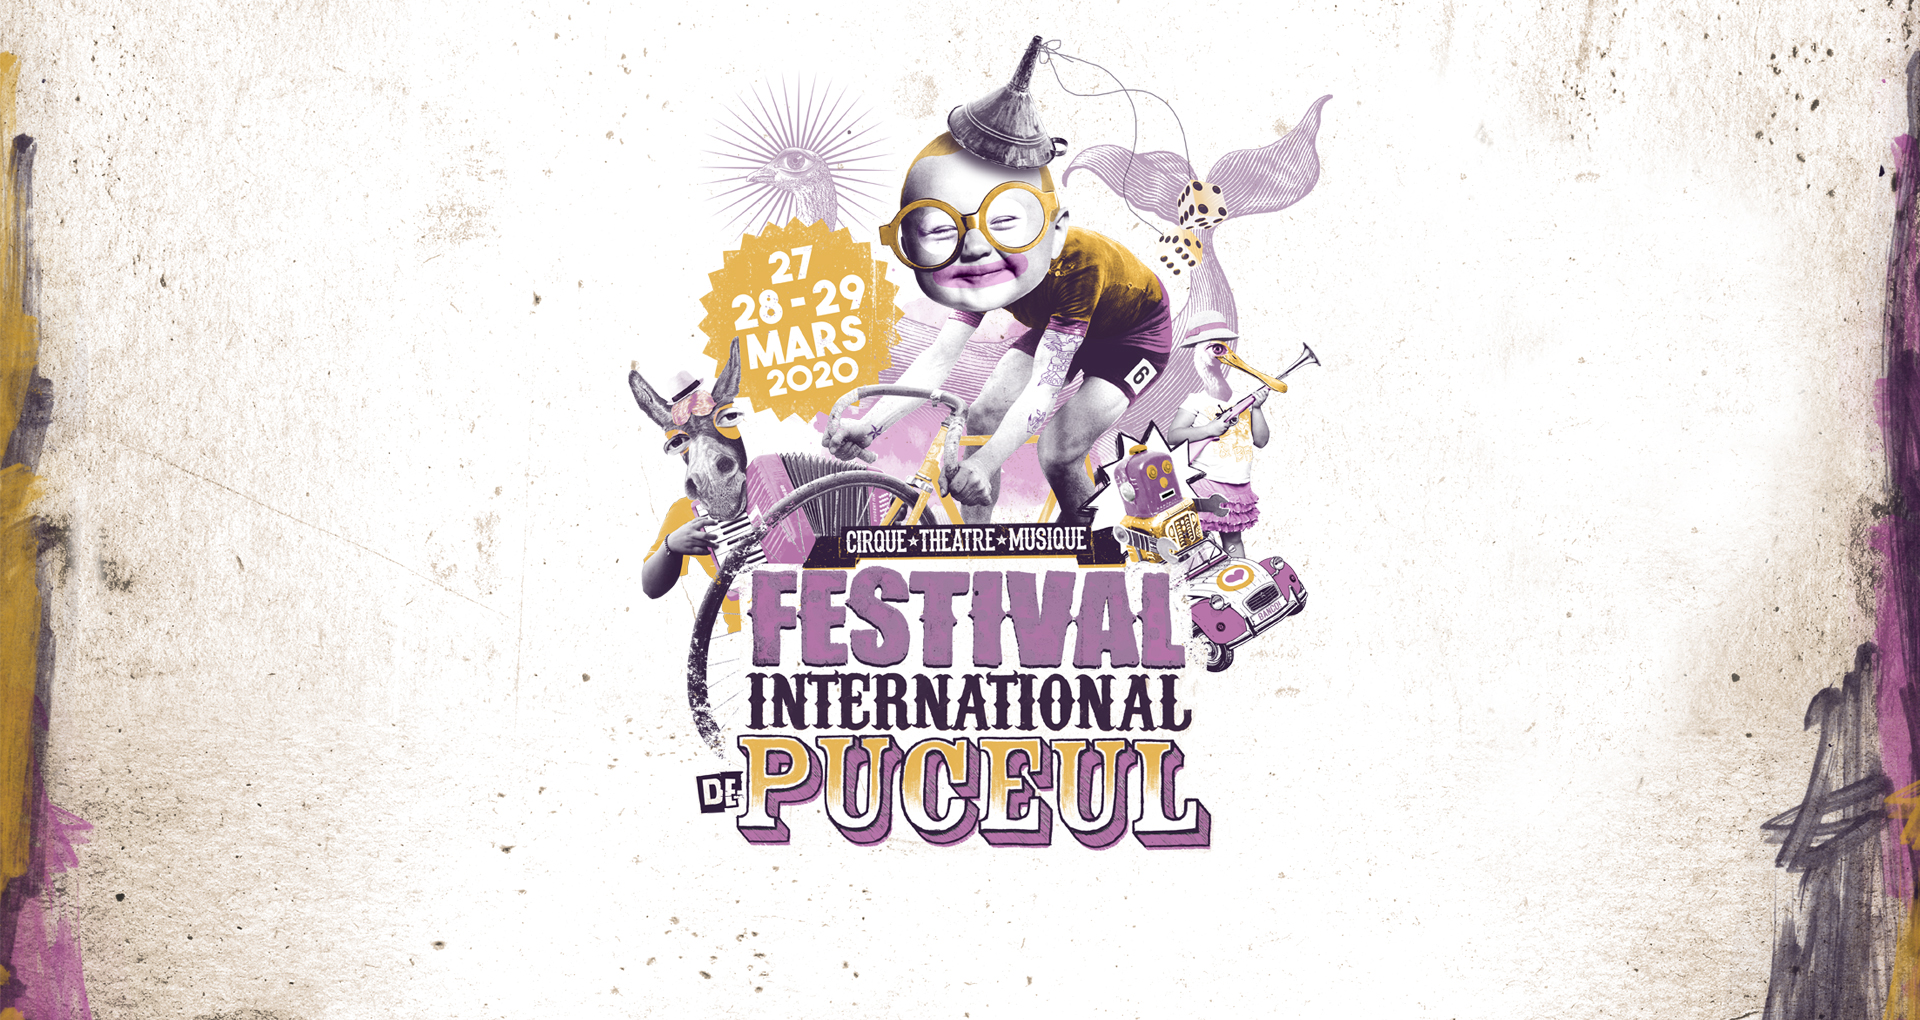
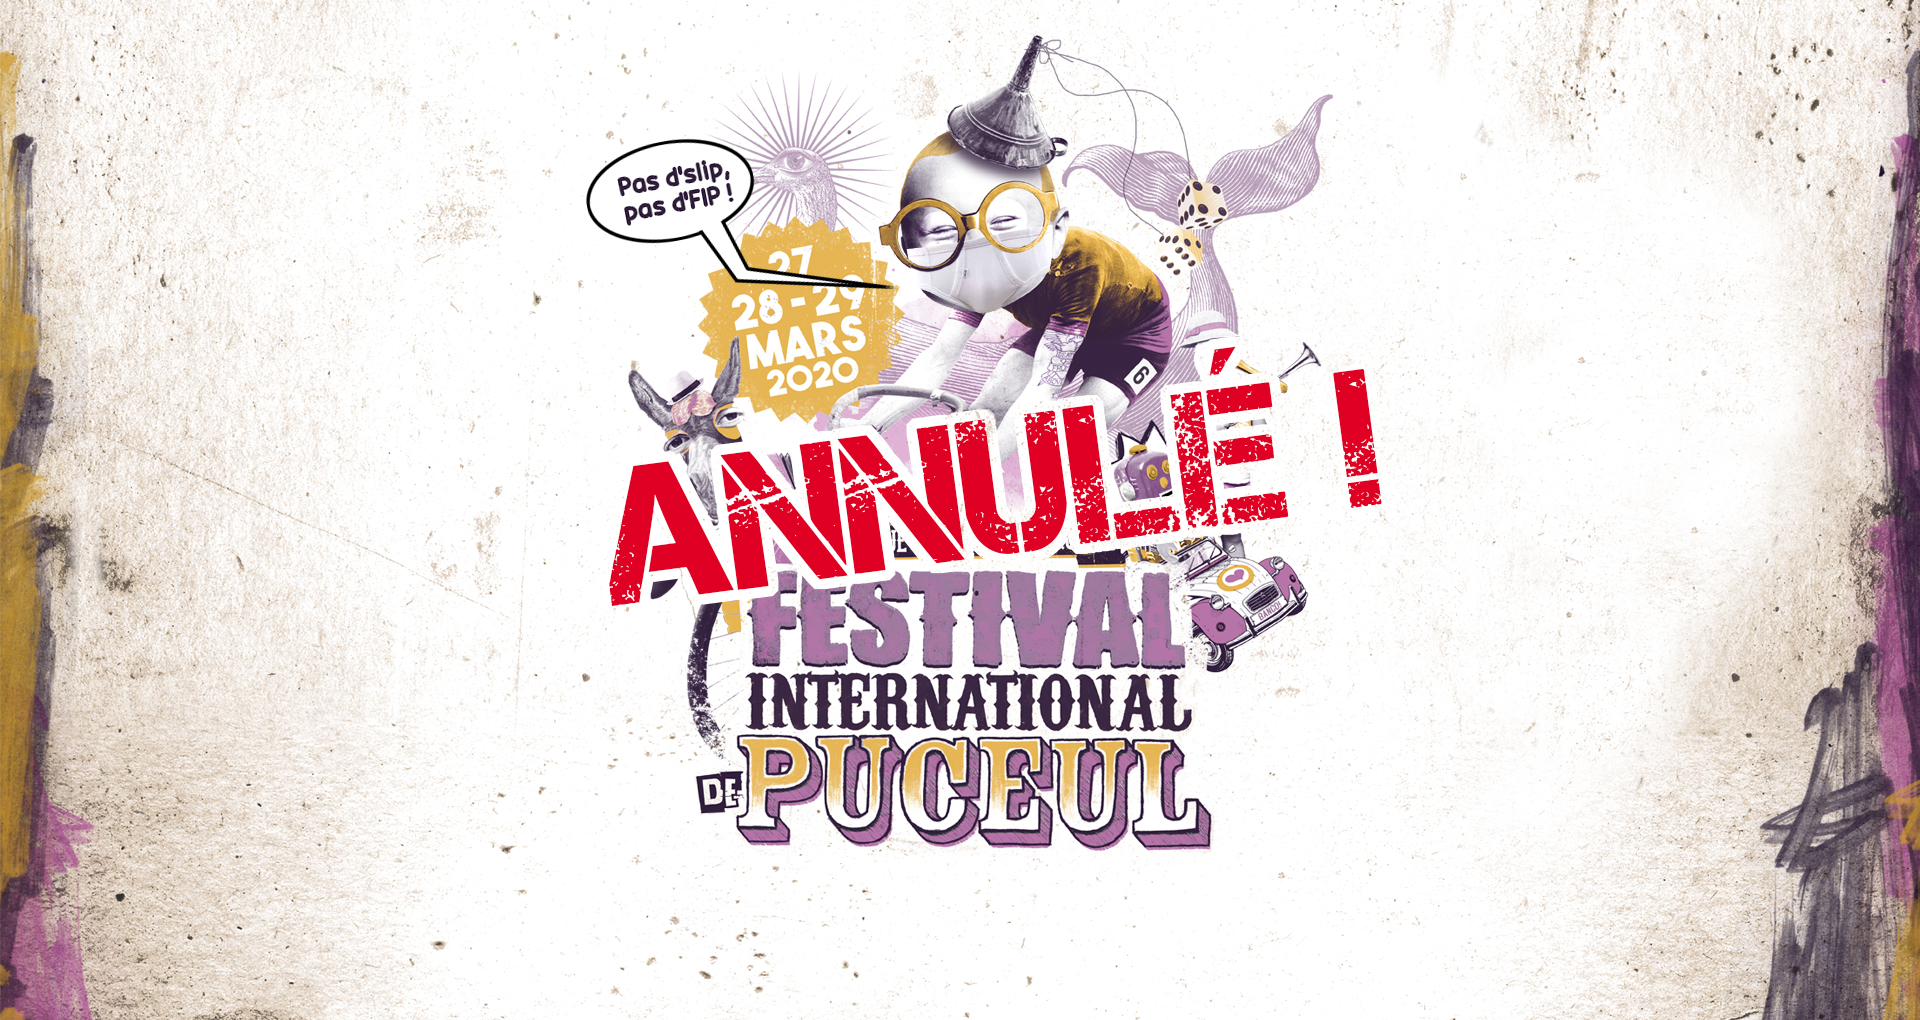
2020 edition canceled by coronavirus

Changed region(s): [[0.3125, 0.3343, 0.7188, 0.6078], [0.375, 0.2127, 0.5625, 0.3039], [0.3125, 0.1216, 0.4062, 0.2431]]

diff --git a/_layouts/home.html b/_layouts/home.html
@@ -3,8 +3,8 @@ layout: default
 ---
 
 <section id="home-page">
-	<a id="after-movie-2019" class="shake-me" target="_blank" href="https://www.youtube.com/watch?v=gC6xYWVUZNk&feature=emb_logo">
-		<img src="{{ "/assets/img/aftermovie2019.png" | relative_url }}" alt="After movie 2019">
+	<a id="after-movie-2019" class="shake-me" target="_blank" href="https://www.youtube.com/watch?v=Qgrc8oOPd7k">
+		<img src="{{ "/assets/img/teaser2020.png" | relative_url }}" alt="After movie 2019">
 	</a>
 
 	{% include nav.html %}
